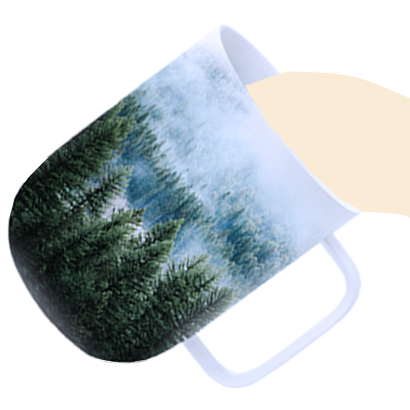
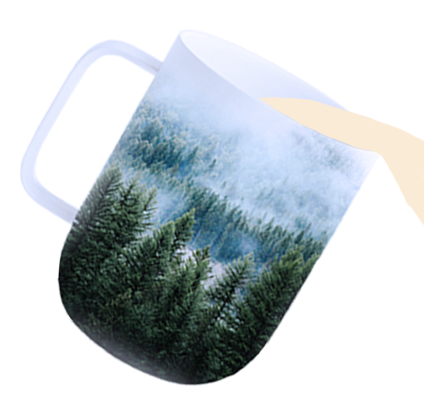
Final Edits made to Project 2

diff --git a/project2/styles.css b/project2/styles.css
@@ -46,13 +46,13 @@ body{background-image: url(assets/cropped-rawpixel-645297-unsplash.jpg);
 .big-heading-second-line{
     font-family:"rosewood-std-fill";
     color:black;
-    font-size: 32px;
+    font-size: 36px;
     font-kerning: auto;
 }
 
 .information-section{
 
-    height:275px;
+    height:405px;
     padding:30px;
     font-family: "Garamond";
     font-size:14px;
@@ -73,22 +73,7 @@ body{background-image: url(assets/cropped-rawpixel-645297-unsplash.jpg);
     animation-timing-function:ease-in-out
     
 }
-.instructions-section{
-    height:20px;
-    width:730px;
-    color:black;
-    padding:20px;
-    background-color:white;
-    font-family: "rosewood-std-fill";
-    font-size:20px;
-    text-align: center;
-    position:relative;
-        margin-top:40px;
-        margin-bottom:40px;
-    
 
-    
-}
 
 /*ILLUSTRATIONS AND ACTIONS*/
 
@@ -105,17 +90,20 @@ body{background-image: url(assets/cropped-rawpixel-645297-unsplash.jpg);
 
 h1{
     font-family: "rosewood-std-fill";
-    font-size:24px
+    font-size:24px;
+    padding:5px;
     }
 
 h2 {
     font-family:"rosewood-std-fill";
-    font-size:18px
+    font-size:18px;
+    padding:5px;
 }
 
 p{
     font-family:"garamond";
-    font-size:16px
+    font-size:18px;
+    padding:10px
 }
 
 
@@ -127,20 +115,30 @@ p{
 .green-tea{
     margin-bottom:80px;
     background-color:white;
-    height:470px
+    height:680px
 }
 
 .buttons{
     background-color:lightsteelblue;
     font-family: "rosewood-std-fill";
-    font-size:14px;
+    font-size:18px;
     position:relative;
-    z-index:40;   
+    z-index:40;
+}
+
+.close{
+    font-size:24px;
+    background-color:black;
+    color:black;
+
 }
 
 #rotate-one{
     top:20px;
-    left:20px
+    left:20px;
+    position:relative;
+        margin-top:;
+        margin-left:120
 }
 
 .relative{
@@ -188,7 +186,7 @@ p{
 }
 
 #green-tea-information{
-    top: 117px;
+    top: 145px;
     left: 315px;
 }
 
@@ -196,11 +194,11 @@ p{
     position:relative;
     top:-40px;
     background-color:white;
-    height:470px
+    height:665px
 }
 
 #rotate-two{
-    left:640px;
+    left:460px;
     top:20px
     
 }
@@ -242,13 +240,12 @@ p{
 
 .black-tea{
     position:relative;
-    
     background-color:white;
-    height:470px
+    height:625px
 }
 #rotate-three{
     position:absolute;
-        left:20px;
+        left:165px;
         top:20px;
 }
 .tea-cups-3{
@@ -279,20 +276,20 @@ p{
     position:relative;
         margin-top:40px;
     background-color:white;
-    height:470px;
+    height:690px;
     
 }
 
 #rotate-four{
     position:absolute;
-    left:640px;
+    left:460px;
     top:20px;
 }
 
 .tea-cups-4{
     position:absolute;
     left:385px;
-    top:30
+    top:40px;
 }
 
 #seven-cup,
@@ -308,7 +305,7 @@ p{
 }
 
 #oolong-tea-information{
-    top:150px;
+    top:160px;
     left:30px;
     
 }
@@ -318,7 +315,7 @@ p{
     height:238px;
     background-image:url(assets/footerbackground);
     position:relative;
-        margin-top:120
+        margin-top:880
 }
 
 /* ANIMATIONS */

diff --git a/project2/index.html b/project2/index.html
@@ -36,11 +36,13 @@
                 
             </p>
             
+            <p class="information-section-text">Click on the buttons below to learn about various types of teas.
+            </p>
+            
             
         </div>
         
-        <div class="instructions-section"> Click on the buttons to learn about various types of teas.
-        </div>
+        
     
   
     

diff --git a/project2/js/behaviors.js b/project2/js/behaviors.js
@@ -16,6 +16,7 @@ $(document).ready(function (){
         $("#two-cup").toggleClass("rotated");
         $("#two-cup").toggleClass("visible");
         $('#green-tea-information').toggleClass("visible");
+        $("#rotate-one").toggleClass("visible");
         });
 });
 
